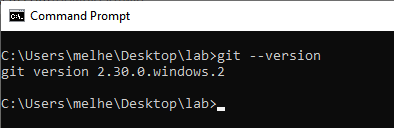
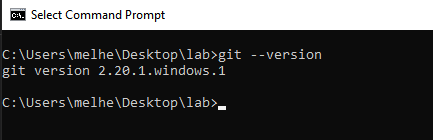
fix typos and remove images

Changed region(s): [[0.0, 0.3438, 0.8223, 0.625], [0.0, 0.0, 1.0, 0.25], [0.0, 0.6875, 0.5787, 0.875]]

diff --git a/windows.md b/windows.md
@@ -17,7 +17,7 @@
 
 <a name="win_installing_git"></a>
 
-# ![#f03c15](https://via.placeholder.com/15/f03c15/000000?text=+) Installing git ![#f03c15](https://via.placeholder.com/15/f03c15/000000?text=+)
+## Installing git
 
 </br>
 
@@ -103,7 +103,7 @@ To make sure git is installed correctly
 $ git --version
 ```
 
-<img src="images/win_images/git-00-git_version.png" alt="download_git" width="1000"/>
+<img src="images/win_images/git-02-git_version.png" alt="download_git" width="1000"/>
 
 <br/>
 
@@ -122,7 +122,7 @@ $ git config --global user.email swang03@pasadena.edu
 
 <a name="win_installing_cmake"></a>
 
-# ![#f03c15](https://via.placeholder.com/15/f03c15/000000?text=+) Installing cmake ![#f03c15](https://via.placeholder.com/15/f03c15/000000?text=+)
+## Installing cmake
 
 </br>
 
@@ -190,7 +190,7 @@ $ cmake --version
 
 <a name="win_installing_mingw"></a>
 
-# ![#f03c15](https://via.placeholder.com/15/f03c15/000000?text=+) Install MinGW ![#f03c15](https://via.placeholder.com/15/f03c15/000000?text=+)
+## Install MinGW
 
 </br>
 
@@ -345,7 +345,7 @@ $ g++ --version
 
 <a name="accepting_the_assignment"></a>
 
-# ![#f03c15](https://via.placeholder.com/15/f03c15/000000?text=+) Accepting the assignment ![#f03c15](https://via.placeholder.com/15/f03c15/000000?text=+)
+## Accepting the assignment
 
 Here is the **assignment link** for [CS3A](https://github.com/stephengineer-CS003A-classroom/CS3A_Assignments) and here is the link for [CS8]()
 
@@ -388,7 +388,7 @@ __Note__: Bookmark this page to know how to get here. We'll need to check in her
 
 <a name="cloning_the_assignment"></a>
 
-# ![#f03c15](https://via.placeholder.com/15/f03c15/000000?text=+) Cloning the assignment ![#f03c15](https://via.placeholder.com/15/f03c15/000000?text=+)
+## Cloning the assignment
 
 ### Get git link of assignment
 
@@ -417,7 +417,7 @@ $ git clone https://github.com/stephengineer-CS003A/00_lab_0-stephengineer.git
 
 <a name="project_organization"></a>
 
-# ![#f03c15](https://via.placeholder.com/15/f03c15/000000?text=+) Project Organization ![#f03c15](https://via.placeholder.com/15/f03c15/000000?text=+)
+## Project Organization
 
 </br>
 
@@ -487,7 +487,7 @@ On the left panel (Explorer) you will find the `main.cpp` on the root folder, an
 
 <a name="git_commands"></a>
 
-# ![#f03c15](https://via.placeholder.com/15/f03c15/000000?text=+) Git commands ![#f03c15](https://via.placeholder.com/15/f03c15/000000?text=+)
+## Git commands
 
 One of the main tasks in this class is tracking changes made to the project. We need to know what happened when and what changed. This is both for your peace of mind (helps you not lose your project accidentally) and for me to track your progress through the course. We use [git](https://git-scm.com/) to track changes.
 
@@ -564,7 +564,7 @@ __Note__: `commit` and `push` often: make sure you `commit` your changes after c
 
 <a name="getting_started"></a>
 
-# ![#f03c15](https://via.placeholder.com/15/f03c15/000000?text=+) Getting started ![#f03c15](https://via.placeholder.com/15/f03c15/000000?text=+)
+## Getting started
 
 </br>
 
@@ -572,7 +572,7 @@ __Note__: `commit` and `push` often: make sure you `commit` your changes after c
 
 You will be supplied with a <a href="./basic_test.cpp" target="_blank">`basic_test.cpp`</a> file. You will copy this file and overwrite the existing _generic_ `basic_test.cpp` in your project folder. After this, you will __NEVER__ edit the `basic_test.cpp` file.
 
-<a href="./basic_test.cpp" target="_blank">`basic_test.cpp`</a> demonstrtes the functionality of the project and gives you an opportunity to make sure your function signatures and class declarations match those of the grader.
+<a href="./basic_test.cpp" target="_blank">`basic_test.cpp`</a> demonstrates the functionality of the project and gives you an opportunity to make sure your function signatures and class declarations match those of the grader.
 You should be able to compile and run the `basic_test.cpp` with your functions.
 
 Pay special attention to the `#include` path at the top. Your file structure has to be __exactly__ the same as the one depicted here.
@@ -583,7 +583,7 @@ Pay special attention to the `#include` path at the top. Your file structure has
 
 ### Step 2: Create project folder
 
-Create a new function folder under the `includes/` folde and name this folder to `array_functions`. This is the directory you will add your `.h` and `.cpp` files.
+Create a new function folder under the `includes/` folder and name this folder to `array_functions`. This is the directory you will add your `.h` and `.cpp` files.
 
 <br>
 
@@ -756,7 +756,7 @@ Now, you can implement functions one by one in `array_functions.cpp` and write t
 
 <a name="completing_the_project"></a>
 
-# ![#f03c15](https://via.placeholder.com/15/f03c15/000000?text=+) Completing the project ![#f03c15](https://via.placeholder.com/15/f03c15/000000?text=+)
+## Completing the project
 
 </br>
 
@@ -968,7 +968,7 @@ I cannot overemphasize how important it is for this test to be able to compile a
 
 </br>
 
-# Autograder Status
+### Autograder Status
 
 You can keep track of the grading status of your project on the assignment page. A yellow dot means that the tests are still being compiled and run by the autograder.This shouldn't take more than a minute or two. You can refresh the page to update the status. A green checkmark means that all your tests have passed. A red x means that at least one test failed.
 

diff --git a/mac.md b/mac.md
@@ -16,7 +16,7 @@
 
 <a name="mac_installing_git"></a>
 
-# ![#f03c15](https://via.placeholder.com/15/f03c15/000000?text=+) Installing git ![#f03c15](https://via.placeholder.com/15/f03c15/000000?text=+)
+## Installing git
 
 </br>
 
@@ -72,7 +72,7 @@ $ git config --global user.email "swang03@pasadena.edu"
 
 <a name="mac_installing_cmake"></a>
 
-# ![#f03c15](https://via.placeholder.com/15/f03c15/000000?text=+) Installing cmake ![#f03c15](https://via.placeholder.com/15/f03c15/000000?text=+)
+## Installing cmake
 
 </br>
 
@@ -106,9 +106,9 @@ If you do not get a response similar to this, then you do not have `cmake` on yo
 
 <a name="accepting_the_assignment"></a>
 
-# ![#f03c15](https://via.placeholder.com/15/f03c15/000000?text=+) Accepting the assignment ![#f03c15](https://via.placeholder.com/15/f03c15/000000?text=+)
+## Accepting the assignment
 
-Here is the **assignment link** for [CS3A](https://github.com/stephengineer-CS003A-classroom/CS3A_Assignments) and here is the link for [CS8]()
+Here is the **assignment link** for [CS3A](https://github.com/stephengineer-CS003A-classroom/CS3A_Assignments).
 
 </br>
 
@@ -149,7 +149,7 @@ __Note__: Bookmark this page to know how to get here. We'll need to check in her
 
 <a name="cloning_the_assignment"></a>
 
-# ![#f03c15](https://via.placeholder.com/15/f03c15/000000?text=+) Cloning the assignment ![#f03c15](https://via.placeholder.com/15/f03c15/000000?text=+)
+## Cloning the assignment
 
 ### Get git link of assignment
 
@@ -178,7 +178,7 @@ $ git clone https://github.com/stephengineer-CS003A/00_lab_0-stephengineer.git
 
 <a name="project_organization"></a>
 
-# ![#f03c15](https://via.placeholder.com/15/f03c15/000000?text=+) Project Organization ![#f03c15](https://via.placeholder.com/15/f03c15/000000?text=+)
+## Project Organization
 
 </br>
 
@@ -246,7 +246,7 @@ On the left panel (Explorer) you will find the `main.cpp` on the root folder, an
 
 <a name="git_commands"></a>
 
-# ![#f03c15](https://via.placeholder.com/15/f03c15/000000?text=+) Git commands ![#f03c15](https://via.placeholder.com/15/f03c15/000000?text=+)
+## Git commands
 
 One of the main tasks in this class is tracking changes made to the project. We need to know what happened when and what changed. This is both for your peace of mind (helps you not lose your project accidentally) and for me to track your progress through the course. We use [git](https://git-scm.com/) to track changes.
 
@@ -323,7 +323,7 @@ __Note__: `commit` and `push` often: make sure you `commit` your changes after c
 
 <a name="getting_started"></a>
 
-# ![#f03c15](https://via.placeholder.com/15/f03c15/000000?text=+) Getting started ![#f03c15](https://via.placeholder.com/15/f03c15/000000?text=+)
+## Getting started
 
 </br>
 
@@ -331,7 +331,7 @@ __Note__: `commit` and `push` often: make sure you `commit` your changes after c
 
 You will be supplied with a <a href="./basic_test.cpp" target="_blank">`basic_test.cpp`</a> file. You will copy this file and overwrite the existing _generic_ `basic_test.cpp` in your project folder. After this, you will __NEVER__ edit the `basic_test.cpp` file.
 
-<a href="./basic_test.cpp" target="_blank">`basic_test.cpp`</a> demonstrtes the functionality of the project and gives you an opportunity to make sure your function signatures and class declarations match those of the grader.
+<a href="./basic_test.cpp" target="_blank">`basic_test.cpp`</a> demonstrates the functionality of the project and gives you an opportunity to make sure your function signatures and class declarations match those of the grader.
 You should be able to compile and run the `basic_test.cpp` with your functions.
 
 Pay special attention to the `#include` path at the top. Your file structure has to be __exactly__ the same as the one depicted here.
@@ -342,7 +342,7 @@ Pay special attention to the `#include` path at the top. Your file structure has
 
 ### Step 2: Create project folder
 
-Create a new function folder under the `includes/` folde and name this folder to `array_functions`. This is the directory you will add your `.h` and `.cpp` files.
+Create a new function folder under the `includes/` folder and name this folder to `array_functions`. This is the directory you will add your `.h` and `.cpp` files.
 
 <br>
 
@@ -514,7 +514,7 @@ Now, you can implement functions one by one in `array_functions.cpp` and write t
 
 <a name="completing_the_project"></a>
 
-# ![#f03c15](https://via.placeholder.com/15/f03c15/000000?text=+) Completing the project ![#f03c15](https://via.placeholder.com/15/f03c15/000000?text=+)
+## Completing the project
 
 </br>
 
@@ -726,7 +726,7 @@ I cannot overemphasize how important it is for this test to be able to compile a
 
 </br>
 
-# Autograder Status
+## Autograder Status
 
 You can keep track of the grading status of your project on the assignment page. A yellow dot means that the tests are still being compiled and run by the autograder.This shouldn't take more than a minute or two. You can refresh the page to update the status. A green checkmark means that all your tests have passed. A red x means that at least one test failed.
 
